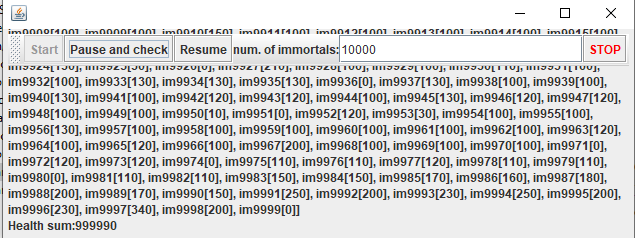
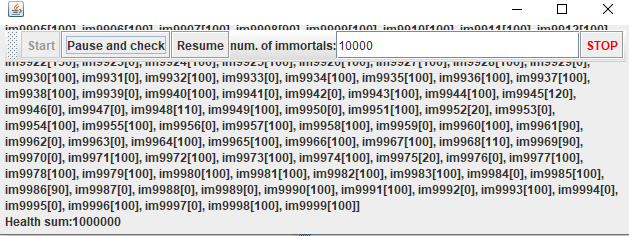
STOP

diff --git a/src/main/java/edu/eci/arsw/highlandersim/ControlFrame.java b/src/main/java/edu/eci/arsw/highlandersim/ControlFrame.java
@@ -37,7 +37,7 @@ public class ControlFrame extends JFrame {
     private JTextField numOfImmortals;
     
     private static boolean Pausa=false;
-
+    private static boolean Stop=false;
 
     /**
      * Launch the application.
@@ -72,7 +72,9 @@ public class ControlFrame extends JFrame {
         final JButton btnStart = new JButton("Start");
         btnStart.addActionListener(new ActionListener() {
             public void actionPerformed(ActionEvent e) {
+            	Stop=false;
 
+            	
                 immortals = setupInmortals();
 
                 if (immortals != null) {
@@ -130,6 +132,22 @@ public class ControlFrame extends JFrame {
         JButton btnStop = new JButton("STOP");
         btnStop.setForeground(Color.RED);
         toolBar.add(btnStop);
+        
+        btnStop.addActionListener(new ActionListener() {
+            public void actionPerformed(ActionEvent e) {
+                Stop=true;
+                btnResume.setEnabled(false);
+                btnPauseAndCheck.setEnabled(false);
+                int sum = 0;
+                for (Immortal im : immortals) {
+                    sum += im.getHealth();
+                }
+
+                statisticsLabel.setText("<html>Program stopped<br>Health sum:"+ sum);
+                
+            }
+        });
+        
 
         scrollPane = new JScrollPane();
         contentPane.add(scrollPane, BorderLayout.CENTER);
@@ -137,6 +155,10 @@ public class ControlFrame extends JFrame {
         output = new JTextArea();
         output.setEditable(false);
         scrollPane.setViewportView(output);
+        
+        
+   
+
         
         
         statisticsLabel = new JLabel("Immortals total health:");
@@ -171,6 +193,14 @@ public class ControlFrame extends JFrame {
 
 	public static void setPausa(boolean pausa) {
 		Pausa = pausa;
+	}
+
+	public static boolean isStop() {
+		return Stop;
+	}
+
+	public static void setStop(boolean stop) {
+		Stop = stop;
 	}
 
 

diff --git a/src/main/java/edu/eci/arsw/highlandersim/Immortal.java b/src/main/java/edu/eci/arsw/highlandersim/Immortal.java
@@ -29,7 +29,8 @@ public class Immortal extends Thread {
 
     public void run() {
 
-        while (true) {
+        while (true && !ControlFrame.isStop()) {
+        	
         	
         	synchronized (this) {
                 if (ControlFrame.isPausa()) {
@@ -41,6 +42,8 @@ public class Immortal extends Thread {
                 }
         	}
         	
+        	
+
         	
             Immortal im;
 

diff --git a/README.md b/README.md
@@ -113,3 +113,16 @@ Synchronization and Dead-Locks.
 	1.	Analyzing the simulation operation scheme, could this create a race condition? Implement the functionality, run the simulation and see what problem arises when there are many 'immortals' in it. Write your conclusions about it in the file ANSWERS.txt. 
 	2.	Correct the previous problem WITHOUT using synchronization, since making access to the shared list of immortals sequential would make simulation extremely slow. 
 11.	To finish, implement the STOP option.
+
+	Se añade la funcion de stop con un mensaje adicional que nos informa que el programa se ha detenido.
+	
+	![Alt text](img/10.1.PNG)
+	
+	Los hilos no correran si el programa se encuentra en **STOP**
+	
+	![Alt text](img/10.2.PNG)
+	
+	Se comprueba que el programa se detiene satisfactoriamente.
+	
+	![Alt text](img/10.PNG)
+	
